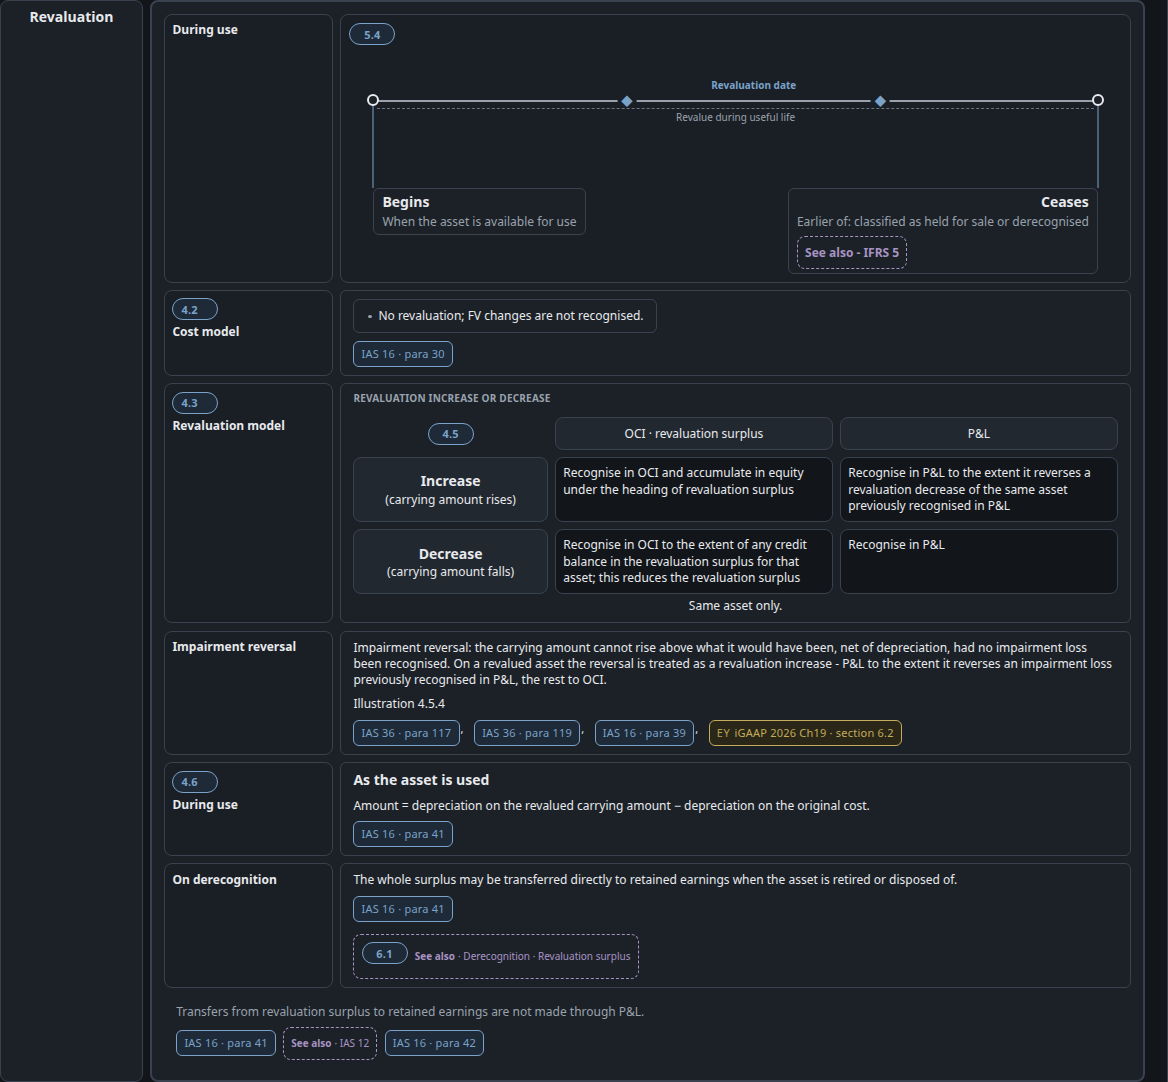
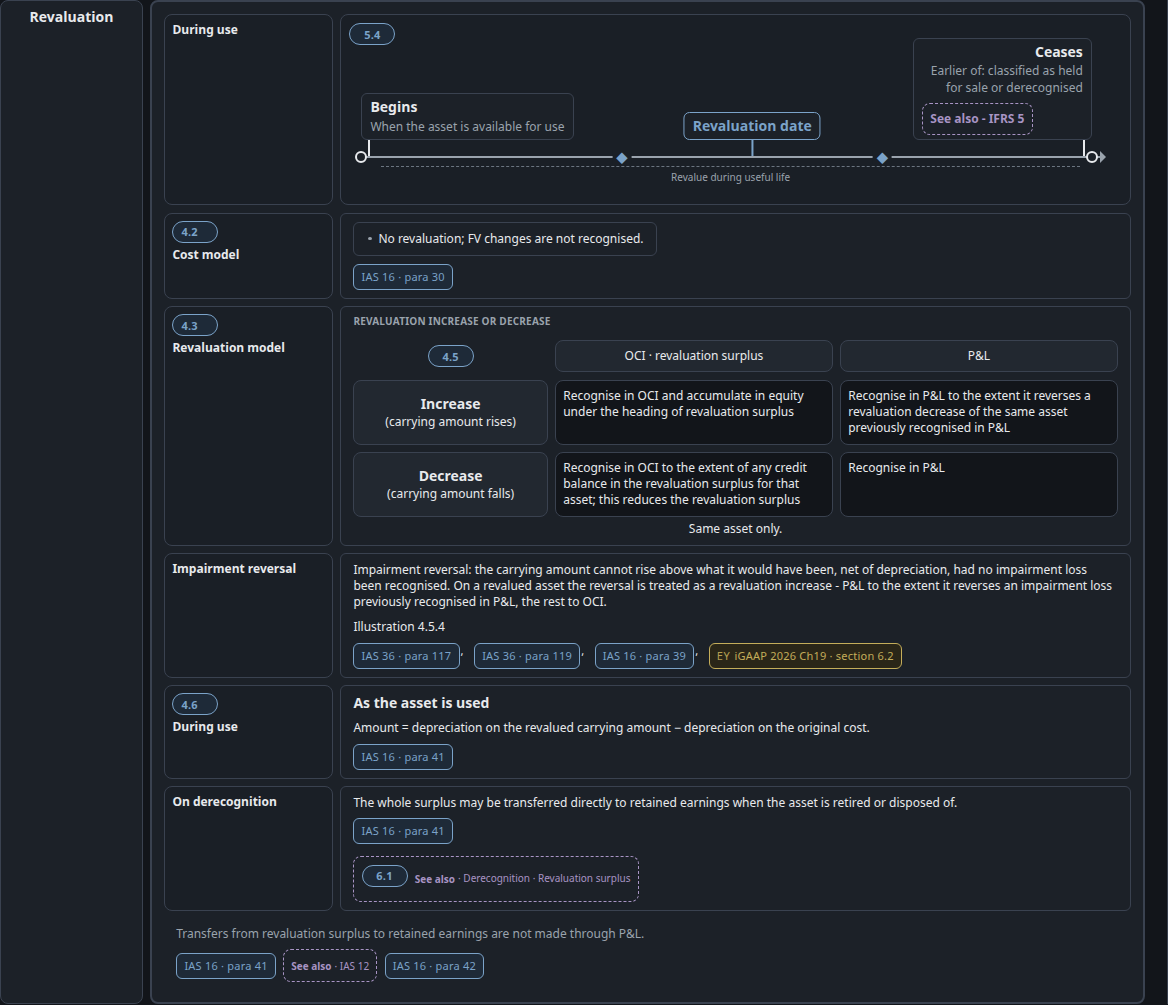
punch6: During-use timelines are flags planted on an arrow axis

diff --git a/design/row98-timeline-punch5/reval-master-section.html b/design/row98-timeline-punch5/reval-master-section.html
@@ -11,9 +11,9 @@
 <style>
 /* MOCK ONLY — #98 reval-master-section-98
    Johnny punch5 2026-10-19 · DRAFT-FOR-SIGN · No Build · No live merge
-   APPLY punch5 (timeline only): drop .reval-date-row second band.
-     Fold the two live ◆ (35% / 70%) onto the kit25 axis. One label「Revaluation date」.
-     Span stays「Revalue during useful life」. No new wording.
+   APPLY punch6 (timeline only): axis is an arrow. Begins / Ceases / Revaluation date
+     are flags: 2px pole planted on the axis, card on the pole. One「Revaluation date」.
+     ◆ stay at 35% / 70%. No second band. Span「Revalue during useful life」.
    KEEP punch4: Impairment reversal L2 .inner-rail | detail
    KEEP punch3: L1 stretch · drop plate-title · other L2 · solid L0 · B11 · rev-nest width
    PROPOSE ONLY: Dep timeline (signed kit25, no unreadability named)
@@ -63,22 +63,69 @@ body.embed .page{width:1200px;max-width:100%;margin:0 auto;padding:var(--space-4
 .mock-du .head{display:flex;align-items:center;gap:var(--space-2);flex-wrap:wrap}
 .mock-du .l3{border:var(--stroke-1) solid var(--line);background:var(--surface);border-radius:var(--radius-s);padding:var(--space-1) var(--space-2);display:flex;flex-direction:column;gap:var(--space-hairline);min-width:0;box-sizing:border-box}
 .mock-du .see{font-size:var(--t3-fs);font-weight:var(--t3-strong-fw);color:var(--see-also,var(--accent));border:var(--stroke-1) dashed var(--see-also,var(--dash));border-radius:var(--radius-pill);padding:0 var(--space-2);align-self:flex-start}
+/* punch6 — flag on the axis, axis is an arrow. Same tokens as IFRS 18 .tr-tl:
+   pole = --stroke-2, arrowhead = --rail-bar-l. No new chrome. */
 .mock-du .m-tl{display:flex;flex-direction:column;gap:0;position:relative;min-width:0}
-.mock-du .m-tl-axis{position:relative;height:calc(var(--space-6)*2 + var(--space-4));margin:0 var(--space-5);overflow:visible}
-.mock-du .m-tl-line{position:absolute;left:0;right:0;top:calc(var(--space-6) + var(--space-2));border-top:var(--stroke-2) solid var(--muted)}
-.mock-du .m-tl-ring{position:absolute;top:calc(var(--space-6) + var(--space-2));width:var(--space-3);height:var(--space-3);border:var(--stroke-2) solid var(--ink);background:var(--surface);border-radius:50%;transform:translate(-50%,-50%);z-index:6}
-.mock-du .m-tl-span{position:absolute;top:calc(var(--space-6) + var(--space-4));left:0;width:100%;font-size:var(--t3-fs);font-weight:var(--t3-fw);line-height:var(--t3-lh);color:var(--muted);text-align:center;box-sizing:border-box}
-.mock-du .m-tl-span::before{content:"";display:block;border-top:var(--stroke-1) dashed var(--dash);margin:0 var(--space-1) var(--space-hairline)}
-.mock-du .m-tl-ring-lead{position:absolute;top:calc(var(--space-6) + var(--space-2));transform:translateX(-50%);width:var(--stroke-1);height:calc(var(--space-6) * 2 + var(--space-4) + var(--space-2));background:var(--accent);border:none;z-index:5;pointer-events:none}
-.mock-du .m-tl-ends{display:flex;justify-content:space-between;gap:var(--space-3);margin:calc(-1 * var(--space-4)) var(--space-5) 0;padding-top:calc(var(--space-6) * 2);position:relative;z-index:1}
-.mock-du .m-tl-end{display:flex;flex-direction:column;align-items:flex-start;max-width:46%;min-width:0}
-.mock-du .m-tl-end.cease{align-items:flex-end;text-align:right}
-.mock-du .m-tl-end .l3{width:100%}
-.mock-du .m-tl-end.cease .l3{align-items:flex-end}
+.mock-du .m-tl-axis{
+  --tl-y: calc(var(--space-6) * 3);
+  position:relative;
+  height: calc(var(--tl-y) + var(--space-6) + var(--space-2));
+  margin: 0 var(--space-4) 0 var(--space-3);
+  overflow: visible;
+}
+.mock-du .m-tl-line{
+  position:absolute; left:0; right: var(--rail-bar-l); top: var(--tl-y);
+  height: var(--stroke-2); background: var(--muted); border: 0;
+}
+.mock-du .m-tl-arrow{
+  position:absolute; right:0; top: calc(var(--tl-y) + var(--stroke-2) / 2); transform: translateY(-50%);
+  border-top: var(--rail-bar-l) solid transparent;
+  border-bottom: var(--rail-bar-l) solid transparent;
+  border-left: var(--rail-bar-l) solid var(--muted);
+}
+.mock-du .m-tl-ring{
+  position:absolute; top: calc(var(--tl-y) + var(--stroke-2) / 2);
+  width: var(--space-3); height: var(--space-3);
+  border: var(--stroke-2) solid var(--ink); background: var(--surface); border-radius: 50%;
+  transform: translate(-50%, -50%); z-index: 6;
+}
+.mock-du .m-tl-ring.end{ left: auto; right: calc(var(--rail-bar-l) + var(--space-2)); transform: translate(50%, -50%); }
+.mock-du .m-tl-flag{
+  position:absolute; bottom: calc(100% - var(--tl-y));
+  display:flex; flex-direction:column; align-items:flex-start;
+  max-width: 34%; z-index: 4;
+}
+.mock-du .m-tl-flag .l3{ width: 100%; }
+.mock-du .m-tl-pole{
+  width: var(--stroke-2); height: var(--space-4); background: var(--ink);
+  margin-left: calc(var(--space-2) - var(--stroke-2) / 2);
+}
+.mock-du .m-tl-flag.begin{ left: 0; }
+.mock-du .m-tl-flag.cease{ right: calc(var(--rail-bar-l) + var(--space-2)); align-items: flex-end; text-align: right; max-width: 24%; }
+.mock-du .m-tl-flag.cease .l3{ align-items: flex-end; }
+.mock-du .m-tl-flag.cease .m-tl-pole{ margin-left: 0; margin-right: calc(var(--space-2) - var(--stroke-2) / 2); }
+.mock-du .m-tl-flag.date{
+  left: 52.5%; transform: translateX(-50%);
+  align-items: center; text-align: center; max-width: none;
+}
+.mock-du .m-tl-flag.date .l3{ width: auto; border-color: var(--accent); padding: var(--space-1) var(--space-2); }
+.mock-du .m-tl-flag.date .t1{ color: var(--accent); white-space: nowrap; }
+.mock-du .m-tl-flag.date .m-tl-pole{ margin: 0; background: var(--accent); }
+.mock-du .m-tl-span{
+  position:absolute; top: calc(var(--tl-y) + var(--stroke-2) + var(--space-2));
+  left: var(--space-3); right: calc(var(--rail-bar-l) + var(--space-3));
+  font-size: var(--t3-fs); font-weight: var(--t3-fw); line-height: var(--t3-lh);
+  color: var(--muted); text-align: center;
+}
+.mock-du .m-tl-span::before{
+  content:""; display:block; border-top: var(--stroke-1) dashed var(--dash);
+  margin: 0 var(--space-2) var(--space-1);
+}
+.mock-du .m-tl-axis > .lc-dia{
+  top: calc(var(--tl-y) + var(--stroke-2) / 2); z-index: 7;
+  background: var(--band); padding: 0 var(--space-1);
+}
 .mock-du .tl-pane{border:var(--stroke-1) solid var(--line);background:var(--band);border-radius:var(--card-radius);padding:var(--space-2);display:flex;flex-direction:column;gap:var(--space-2);min-width:0;box-sizing:border-box;height:100%}
-/* punch5: live ◆ sit ON the kit25 axis (same 35% / 70%). One label. No second band. */
-.mock-du .m-tl-axis > .lc-dia{top:calc(var(--space-6) + var(--space-2));z-index:7;background:var(--band);padding:0 var(--space-1)}
-.mock-du .m-tl-date-lab{position:absolute;left:52.5%;top:calc(var(--space-6) + var(--space-2) - var(--space-2));transform:translate(-50%,-100%);z-index:7;margin:0;font-size:var(--t3-fs);font-weight:var(--t1-fw);line-height:var(--t3-lh);color:var(--accent);white-space:nowrap}
 
 /* Dep unify-A rail track — shared by mock-du + L2 peer srows (B10) */
 .ch04-reval .srow,
@@ -217,11 +264,11 @@ body.embed .page{width:1200px;max-width:100%;margin:0 auto;padding:var(--space-4
   <h1>#98 IAS 16 master — Revaluation COMPLETE SECTION</h1>
   <p class="q"><b>1. Standard logic:</b> Under the revaluation model, carrying amount is adjusted to fair value; the reader must see when revaluation applies, how surplus/deficit flows (OCI vs P&amp;L), and how it sits <b>During use</b> as the same life-cycle phase brick as Depreciation — not a flat paragraph dump, and not a duplicate「Revaluation」plate title on top of the phase rail.</p>
   <p class="q"><b>2. Visual signal:</b> LEGO <b>B10</b> L2 <code>.inner-rail</code> stack + <b>B11</b> padding + solid L0. Punch3: L1 <code>a.rail-link</code> <b>stretches full beat height</b> (MF outer-rail = whole beat; visual-grammar Layers: parent height = children it covers). Continuous left = tall L1 + dense L2 — not a short stub.</p>
-  <p class="q"><b>3. vs Before:</b> KEEP punch3 + punch4. CHANGE timeline only: the ◆ band under kit25 is gone. The two live revaluation-date marks sit on the Begins→Ceases axis, with the words「Revaluation date」once.</p>
-  <p class="meta">DRAFT-FOR-SIGN (punch5) · night 1280 · kit25 + ◆ on the axis · Impairment-reversal L2 kept · No Build · Atlas FROZEN cite</p>
+  <p class="q"><b>3. vs Before:</b> KEEP punch3 + punch4 and the punch5 drop of the second ◆ band. CHANGE the timeline drawing: the axis is an arrow, and each label is a flag standing on that line.</p>
+  <p class="meta">DRAFT-FOR-SIGN (punch6) · night 1280 · flag on arrow · Impairment-reversal L2 kept · No Build · Atlas FROZEN cite</p>
 </div>
 
-<p class="mock-cap">#98 AFTER — master Revaluation · punch5 timeline: ◆ on the kit25 axis, no second band · punch4 rail kept · DRAFT-FOR-SIGN</p>
+<p class="mock-cap">#98 AFTER — master Revaluation · punch6: flags on an arrow axis · one Revaluation date · punch4 rail kept · DRAFT-FOR-SIGN</p>
 
 <div class="ppe pack m-l0" id="after-board" aria-label="IAS 16 master — Revaluation phase AFTER">
   <div class="pack-lr">
@@ -240,18 +287,24 @@ body.embed .page{width:1200px;max-width:100%;margin:0 auto;padding:var(--space-4
                 <div class="m-tl" role="group" aria-label="During use timeline">
                   <div class="m-tl-axis">
                     <div class="m-tl-line"></div>
+                    <span class="m-tl-arrow" aria-hidden="true"></span>
                     <span class="m-tl-ring" style="left:0"></span>
-                    <span class="m-tl-ring" style="left:100%"></span>
+                    <span class="m-tl-ring end"></span>
                     <span class="lc-dia" style="left:35%">◆</span>
                     <span class="lc-dia" style="left:70%">◆</span>
-                    <p class="m-tl-date-lab">Revaluation date</p>
-                    <span class="m-tl-ring-lead" style="left:0" aria-hidden="true"></span>
-                    <span class="m-tl-ring-lead" style="left:100%" aria-hidden="true"></span>
+                    <div class="m-tl-flag begin">
+                      <div class="l3"><p class="t1">Begins</p><p class="t2">When the asset is available for use</p></div>
+                      <span class="m-tl-pole" aria-hidden="true"></span>
+                    </div>
+                    <div class="m-tl-flag date">
+                      <div class="l3"><p class="t1">Revaluation date</p></div>
+                      <span class="m-tl-pole" aria-hidden="true"></span>
+                    </div>
+                    <div class="m-tl-flag cease">
+                      <div class="l3"><p class="t1">Ceases</p><p class="t2">Earlier of: classified as held for sale or derecognised</p><span class="see">See also - IFRS 5</span></div>
+                      <span class="m-tl-pole" aria-hidden="true"></span>
+                    </div>
                     <span class="m-tl-span">Revalue during useful life</span>
-                  </div>
-                  <div class="m-tl-ends">
-                    <div class="m-tl-end"><div class="l3"><p class="t1">Begins</p><p class="t2">When the asset is available for use</p></div></div>
-                    <div class="m-tl-end cease"><div class="l3"><p class="t1">Ceases</p><p class="t2">Earlier of: classified as held for sale or derecognised</p><span class="see">See also - IFRS 5</span></div></div>
                   </div>
                 </div>
               </div>

diff --git a/design/row98-timeline-punch5/dep-master-section.html b/design/row98-timeline-punch5/dep-master-section.html
@@ -41,18 +41,57 @@ body.embed .page{width:1200px;max-width:100%;margin:0 auto;padding:var(--space-4
 .mock-du .head{display:flex;align-items:center;gap:var(--space-2);flex-wrap:wrap}
 .mock-du .l3{border:var(--stroke-1) solid var(--line);background:var(--surface);border-radius:var(--radius-s);padding:var(--space-1) var(--space-2);display:flex;flex-direction:column;gap:var(--space-hairline);min-width:0;box-sizing:border-box}
 .mock-du .see{font-size:var(--t3-fs);font-weight:var(--t3-strong-fw);color:var(--see-also,var(--accent));border:var(--stroke-1) dashed var(--see-also,var(--dash));border-radius:var(--radius-pill);padding:0 var(--space-2);align-self:flex-start}
+/* punch6 — flag on the axis, axis is an arrow. Same tokens as IFRS 18 .tr-tl:
+   pole = --stroke-2, arrowhead = --rail-bar-l. No new chrome. */
 .mock-du .m-tl{display:flex;flex-direction:column;gap:0;position:relative;min-width:0}
-.mock-du .m-tl-axis{position:relative;height:calc(var(--space-6)*2 + var(--space-4));margin:0 var(--space-5);overflow:visible}
-.mock-du .m-tl-line{position:absolute;left:0;right:0;top:calc(var(--space-6) + var(--space-2));border-top:var(--stroke-2) solid var(--muted)}
-.mock-du .m-tl-ring{position:absolute;top:calc(var(--space-6) + var(--space-2));width:var(--space-3);height:var(--space-3);border:var(--stroke-2) solid var(--ink);background:var(--surface);border-radius:50%;transform:translate(-50%,-50%);z-index:6}
-.mock-du .m-tl-span{position:absolute;top:calc(var(--space-6) + var(--space-4));left:0;width:100%;font-size:var(--t3-fs);font-weight:var(--t3-fw);line-height:var(--t3-lh);color:var(--muted);text-align:center;box-sizing:border-box}
-.mock-du .m-tl-span::before{content:"";display:block;border-top:var(--stroke-1) dashed var(--dash);margin:0 var(--space-1) var(--space-hairline)}
-.mock-du .m-tl-ring-lead{position:absolute;top:calc(var(--space-6) + var(--space-2));transform:translateX(-50%);width:var(--stroke-1);height:calc(var(--space-6) * 2 + var(--space-4) + var(--space-2));background:var(--accent);border:none;z-index:5;pointer-events:none}
-.mock-du .m-tl-ends{display:flex;justify-content:space-between;gap:var(--space-3);margin:calc(-1 * var(--space-4)) var(--space-5) 0;padding-top:calc(var(--space-6) * 2);position:relative;z-index:1}
-.mock-du .m-tl-end{display:flex;flex-direction:column;align-items:flex-start;max-width:46%;min-width:0}
-.mock-du .m-tl-end.cease{align-items:flex-end;text-align:right}
-.mock-du .m-tl-end .l3{width:100%}
-.mock-du .m-tl-end.cease .l3{align-items:flex-end}
+.mock-du .m-tl-axis{
+  --tl-y: calc(var(--space-6) * 3);
+  position:relative;
+  height: calc(var(--tl-y) + var(--space-6) + var(--space-2));
+  margin: 0 var(--space-4) 0 var(--space-3);
+  overflow: visible;
+}
+.mock-du .m-tl-line{
+  position:absolute; left:0; right: var(--rail-bar-l); top: var(--tl-y);
+  height: var(--stroke-2); background: var(--muted); border: 0;
+}
+.mock-du .m-tl-arrow{
+  position:absolute; right:0; top: calc(var(--tl-y) + var(--stroke-2) / 2); transform: translateY(-50%);
+  border-top: var(--rail-bar-l) solid transparent;
+  border-bottom: var(--rail-bar-l) solid transparent;
+  border-left: var(--rail-bar-l) solid var(--muted);
+}
+.mock-du .m-tl-ring{
+  position:absolute; top: calc(var(--tl-y) + var(--stroke-2) / 2);
+  width: var(--space-3); height: var(--space-3);
+  border: var(--stroke-2) solid var(--ink); background: var(--surface); border-radius: 50%;
+  transform: translate(-50%, -50%); z-index: 6;
+}
+.mock-du .m-tl-ring.end{ left: auto; right: calc(var(--rail-bar-l) + var(--space-2)); transform: translate(50%, -50%); }
+.mock-du .m-tl-flag{
+  position:absolute; bottom: calc(100% - var(--tl-y));
+  display:flex; flex-direction:column; align-items:flex-start;
+  max-width: 34%; z-index: 4;
+}
+.mock-du .m-tl-flag .l3{ width: 100%; }
+.mock-du .m-tl-pole{
+  width: var(--stroke-2); height: var(--space-4); background: var(--ink);
+  margin-left: calc(var(--space-2) - var(--stroke-2) / 2);
+}
+.mock-du .m-tl-flag.begin{ left: 0; }
+.mock-du .m-tl-flag.cease{ right: calc(var(--rail-bar-l) + var(--space-2)); align-items: flex-end; text-align: right; }
+.mock-du .m-tl-flag.cease .l3{ align-items: flex-end; }
+.mock-du .m-tl-flag.cease .m-tl-pole{ margin-left: 0; margin-right: calc(var(--space-2) - var(--stroke-2) / 2); }
+.mock-du .m-tl-span{
+  position:absolute; top: calc(var(--tl-y) + var(--stroke-2) + var(--space-2));
+  left: var(--space-3); right: calc(var(--rail-bar-l) + var(--space-3));
+  font-size: var(--t3-fs); font-weight: var(--t3-fw); line-height: var(--t3-lh);
+  color: var(--muted); text-align: center;
+}
+.mock-du .m-tl-span::before{
+  content:""; display:block; border-top: var(--stroke-1) dashed var(--dash);
+  margin: 0 var(--space-2) var(--space-1);
+}
 .mock-du.srow{display:grid;grid-template-columns:calc(5 * var(--space-6) + var(--space-2) + var(--stroke-1)) minmax(0,1fr);gap:var(--space-cell);align-items:stretch}
 .mock-du .tl-pane{border:var(--stroke-1) solid var(--line);background:var(--band);border-radius:var(--card-radius);padding:var(--space-2);display:flex;flex-direction:column;gap:var(--space-2);min-width:0;box-sizing:border-box;height:100%}
 
@@ -82,7 +121,7 @@ body.embed .page{width:1200px;max-width:100%;margin:0 auto;padding:var(--space-4
   <p class="meta">DRAFT-FOR-SIGN · night 1280 · solid L0 · During use = .inner-rail + kit25 · No Build · Atlas FROZEN cite</p>
 </div>
 
-<p class="mock-cap">#98 AFTER — master Depreciation · picks 1–4 + LEGO B11 padding + solid bg · DRAFT-FOR-SIGN</p>
+<p class="mock-cap">#98 AFTER — master Depreciation · punch6 timeline: flags on an arrow · wording unchanged · DRAFT-FOR-SIGN</p>
 
 <div class="ppe pack m-l0" id="after-board" aria-label="IAS 16 master — Depreciation phase AFTER">
   <div class="pack-lr">
@@ -100,15 +139,18 @@ body.embed .page{width:1200px;max-width:100%;margin:0 auto;padding:var(--space-4
                 <div class="m-tl" role="group" aria-label="During use timeline">
                   <div class="m-tl-axis">
                     <div class="m-tl-line"></div>
+                    <span class="m-tl-arrow" aria-hidden="true"></span>
                     <span class="m-tl-ring" style="left:0"></span>
-                    <span class="m-tl-ring" style="left:100%"></span>
-                    <span class="m-tl-ring-lead" style="left:0" aria-hidden="true"></span>
-                    <span class="m-tl-ring-lead" style="left:100%" aria-hidden="true"></span>
+                    <span class="m-tl-ring end"></span>
+                    <div class="m-tl-flag begin">
+                      <div class="l3"><p class="t1">Begins</p><p class="t2">When the asset is available for use</p></div>
+                      <span class="m-tl-pole" aria-hidden="true"></span>
+                    </div>
+                    <div class="m-tl-flag cease">
+                      <div class="l3"><p class="t1">Ceases</p><p class="t2">Earlier of: classified as held for sale or derecognised</p><span class="see">See also - IFRS 5</span></div>
+                      <span class="m-tl-pole" aria-hidden="true"></span>
+                    </div>
                     <span class="m-tl-span">Depreciate over useful life</span>
-                  </div>
-                  <div class="m-tl-ends">
-                    <div class="m-tl-end"><div class="l3"><p class="t1">Begins</p><p class="t2">When the asset is available for use</p></div></div>
-                    <div class="m-tl-end cease"><div class="l3"><p class="t1">Ceases</p><p class="t2">Earlier of: classified as held for sale or derecognised</p><span class="see">See also - IFRS 5</span></div></div>
                   </div>
                 </div>
               </div>

diff --git a/design/row98-timeline-punch5/ba/timeline-ba.html b/design/row98-timeline-punch5/ba/timeline-ba.html
@@ -10,12 +10,12 @@
   figcaption{font-size:var(--t3-fs);color:var(--muted);margin:0 0 var(--space-1)}
   img{display:block;max-width:100%;height:auto;border:var(--stroke-1) solid var(--line);border-radius:var(--radius-s)}
 </style></head><body>
-<h1>#98 punch5 — Dep ‖ Reval During-use timeline</h1>
-<p>Dep after is the signed kit25, unchanged. Reval after folds the two live ◆ onto that same axis and drops the second band. Wording unchanged.</p>
+<h1>#98 punch6 — flag on the floor, axis is an arrow</h1>
+<p>Before is punch5. After plants each label on a 2px pole on an arrow axis. Same words. No second band.</p>
 <h2>Depreciation</h2>
-<figure><figcaption>BEFORE · live ch05 .lc-head — Year-end legend + 4 ticks under the axis</figcaption><img src="dep-timeline-before.png" alt="Dep timeline before"></figure>
-<figure><figcaption>AFTER · signed kit25 only. No punch5 edit. Span「Depreciate over useful life」. No Year-end band.</figcaption><img src="dep-timeline-after.png" alt="Dep timeline after"></figure>
+<figure><figcaption>BEFORE · punch5. Plain line. Begins and Ceases hang below it.</figcaption><img src="dep-punch5.png" alt="Dep punch5"></figure>
+<figure><figcaption>AFTER · punch6. Arrow axis. Each card stands on a pole planted in its ring. Span「Depreciate over useful life」.</figcaption><img src="dep-timeline-after.png" alt="Dep punch6"></figure>
 <h2>Revaluation</h2>
-<figure><figcaption>BEFORE · live ch04 .lc-head — axis, then a separate ◆ band.「Revaluation date」three times.</figcaption><img src="reval-timeline-before.png" alt="Reval timeline before"></figure>
-<figure><figcaption>AFTER · punch5. Same kit25. ◆ at the live 35% and 70%, on the axis.「Revaluation date」once. No .reval-date-row.</figcaption><img src="reval-timeline-after.png" alt="Reval timeline after"></figure>
+<figure><figcaption>BEFORE · punch5. ◆ on the line, but「Revaluation date」floats above them with no pole.</figcaption><img src="reval-punch5.png" alt="Reval punch5"></figure>
+<figure><figcaption>AFTER · punch6. Same ◆ at 35% and 70%. One flag「Revaluation date」, pole on the axis between them. Span「Revalue during useful life」.</figcaption><img src="reval-timeline-after.png" alt="Reval punch6"></figure>
 </body></html>
